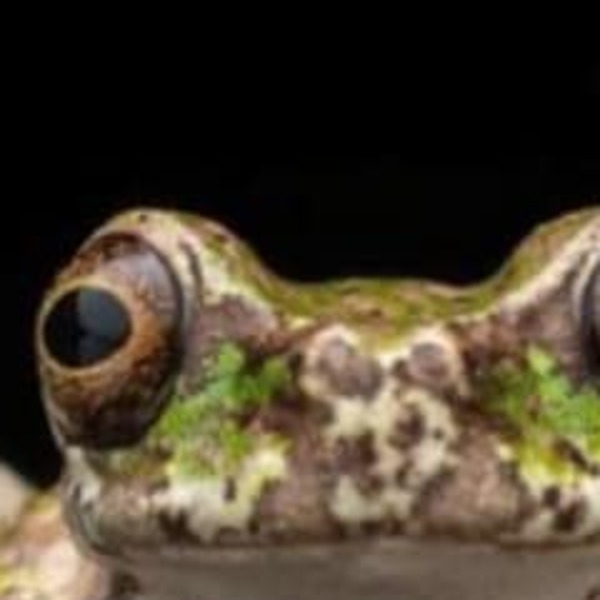
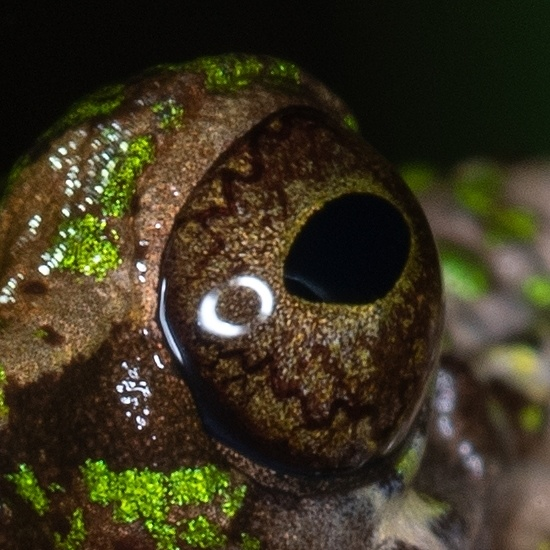
feat(specimen): implement photo editing modal
Added UI component to replace specimen photographs and updated metadata for the ocular detail image to improve descriptive accuracy.

diff --git a/src/components/SpecimenDetailView.tsx b/src/components/SpecimenDetailView.tsx
@@ -1726,6 +1726,141 @@ export const SpecimenDetailView: React.FC<SpecimenDetailViewProps> = ({
         </div>
       )}
 
+      {/* Modal para sustituir / editar fotografía de la galería (ej. Detalle Ocular) */}
+      {editingPhoto && (
+        <div className="fixed inset-0 z-[115] bg-black/75 backdrop-blur-sm flex items-center justify-center p-4 animate-in fade-in">
+          <div className="max-w-md w-full bg-white rounded-3xl p-5 shadow-2xl border border-[#c1c8c3] flex flex-col gap-4 max-h-[90vh] overflow-y-auto">
+            <div className="flex items-center justify-between border-b border-[#e1e3dd] pb-3">
+              <div className="flex items-center gap-2">
+                <div className="w-8 h-8 rounded-xl bg-[#002217] text-[#6cf8bb] flex items-center justify-center shadow-sm">
+                  <span className="material-symbols-outlined text-[19px]">edit</span>
+                </div>
+                <div>
+                  <h3 className="font-bold text-[#002217] text-sm">Sustituir Fotografía</h3>
+                  <p className="text-[11px] text-[#006c49] font-medium">{editingPhoto.label}</p>
+                </div>
+              </div>
+              <button
+                onClick={() => setEditingPhoto(null)}
+                className="w-8 h-8 rounded-full hover:bg-[#f0f2ec] text-[#414844] flex items-center justify-center cursor-pointer"
+              >
+                <span className="material-symbols-outlined text-[18px]">close</span>
+              </button>
+            </div>
+
+            {/* Vista previa de la foto */}
+            <div className="relative w-full h-52 rounded-2xl overflow-hidden bg-black/10 border border-[#c1c8c3] flex items-center justify-center">
+              {editPhotoUrl ? (
+                <img
+                  src={editPhotoUrl}
+                  alt={editingPhoto.label}
+                  className="w-full h-full object-contain bg-black"
+                />
+              ) : (
+                <div className="flex flex-col items-center gap-1 text-[#717974]">
+                  <span className="material-symbols-outlined text-3xl">image</span>
+                  <span className="text-xs">Sin imagen seleccionada</span>
+                </div>
+              )}
+            </div>
+
+            {/* Subir archivo desde dispositivo */}
+            <div>
+              <label className="block text-[11px] font-bold text-[#002217] uppercase mb-1">
+                Subir nueva imagen desde este dispositivo
+              </label>
+              <input
+                type="file"
+                accept="image/*"
+                onChange={(e) => {
+                  const file = e.target.files?.[0];
+                  if (file) {
+                    const reader = new FileReader();
+                    reader.onload = (ev) => {
+                      if (typeof ev.target?.result === 'string') {
+                        setEditPhotoUrl(ev.target.result);
+                      }
+                    };
+                    reader.readAsDataURL(file);
+                  }
+                }}
+                className="w-full text-xs text-[#414844] file:mr-3 file:py-2 file:px-3 file:rounded-xl file:border-0 file:text-xs file:font-bold file:bg-[#002217] file:text-[#6cf8bb] file:cursor-pointer hover:file:bg-[#003d2b] cursor-pointer"
+              />
+            </div>
+
+            {/* Opción Enlace URL */}
+            <div>
+              <label className="block text-[11px] font-bold text-[#002217] uppercase mb-1">
+                O pegar dirección URL de la fotografía
+              </label>
+              <input
+                type="url"
+                value={editPhotoUrl}
+                onChange={(e) => setEditPhotoUrl(e.target.value)}
+                placeholder="/isthmohyla_nacientes_eye_zoom.jpg o https://..."
+                className="w-full px-3 py-2 text-xs bg-[#f8faf4] border border-[#c1c8c3] rounded-xl text-[#191c19] focus:outline-none focus:border-[#006c49]"
+              />
+            </div>
+
+            {/* Descripción */}
+            <div>
+              <label className="block text-[11px] font-bold text-[#002217] uppercase mb-1">
+                Descripción / Pie de foto
+              </label>
+              <textarea
+                rows={2}
+                value={editPhotoDesc}
+                onChange={(e) => setEditPhotoDesc(e.target.value)}
+                placeholder="Detalle de la fotografía..."
+                className="w-full px-3 py-2 text-xs bg-[#f8faf4] border border-[#c1c8c3] rounded-xl text-[#191c19] focus:outline-none focus:border-[#006c49]"
+              />
+            </div>
+
+            {/* Botones de acción */}
+            <div className="grid grid-cols-2 gap-2 pt-2 border-t border-[#e1e3dd]">
+              <button
+                type="button"
+                onClick={() => setEditingPhoto(null)}
+                className="py-2.5 px-3 rounded-xl border border-[#c1c8c3] text-xs font-bold text-[#414844] hover:bg-[#f0f2ec] cursor-pointer"
+              >
+                Cancelar
+              </button>
+              <button
+                type="button"
+                onClick={() => {
+                  if (editPhotoUrl) {
+                    const updatedPhotos = (specimen.additionalPhotos || []).map((p) => {
+                      if (p.id === editingPhoto.id) {
+                        return {
+                          ...p,
+                          url: editPhotoUrl,
+                          description: editPhotoDesc || p.description,
+                        };
+                      }
+                      return p;
+                    });
+                    const updatedSpecimen: SpecimenRecord = {
+                      ...specimen,
+                      additionalPhotos: updatedPhotos,
+                    };
+                    if (onSaveSpecimen) {
+                      onSaveSpecimen(updatedSpecimen);
+                    }
+                    setEditingPhoto(null);
+                    setSaveSuccessMsg(`¡Fotografía "${editingPhoto.label}" sustituida y guardada permanentemente!`);
+                    setTimeout(() => setSaveSuccessMsg(null), 3500);
+                  }
+                }}
+                className="py-2.5 px-3 rounded-xl bg-[#002217] hover:bg-[#003d2b] text-[#6cf8bb] text-xs font-bold flex items-center justify-center gap-1.5 shadow-md cursor-pointer"
+              >
+                <span className="material-symbols-outlined text-[16px]">check</span>
+                <span>Guardar y Sustituir</span>
+              </button>
+            </div>
+          </div>
+        </div>
+      )}
+
       {/* Lightbox / High-Res Photo Modal */}
       {activePhotoModal && (
         <div
@@ -1749,10 +1884,30 @@ export const SpecimenDetailView: React.FC<SpecimenDetailViewProps> = ({
                 <span className="material-symbols-outlined text-[20px]">close</span>
               </button>
             </div>
-            <div className="p-4 flex flex-col gap-1">
-              <span className="font-mono text-xs font-bold text-[#006c49] uppercase">
-                {activePhotoModal.label}
-              </span>
+            <div className="p-4 flex flex-col gap-2">
+              <div className="flex items-center justify-between gap-2">
+                <span className="font-mono text-xs font-bold text-[#006c49] uppercase">
+                  {activePhotoModal.label}
+                </span>
+                <button
+                  onClick={() => {
+                    const target = specimen.additionalPhotos?.find((p) => p.label === activePhotoModal.label) || {
+                      id: 'photo-3',
+                      label: activePhotoModal.label,
+                      url: activePhotoModal.url,
+                      description: activePhotoModal.desc,
+                    };
+                    setActivePhotoModal(null);
+                    setEditingPhoto(target);
+                    setEditPhotoUrl(target.url);
+                    setEditPhotoDesc(target.description);
+                  }}
+                  className="px-2.5 py-1 rounded-lg bg-[#002217] text-[#6cf8bb] text-xs font-bold hover:bg-[#003d2b] flex items-center gap-1 cursor-pointer transition-colors"
+                >
+                  <span className="material-symbols-outlined text-[14px]">edit</span>
+                  <span>Sustituir fotografía</span>
+                </button>
+              </div>
               <p className="text-sm text-[#191c19]">{activePhotoModal.desc}</p>
             </div>
           </div>

diff --git a/src/data/initialSpecimens.ts b/src/data/initialSpecimens.ts
@@ -94,7 +94,7 @@ export const INITIAL_SPECIMENS: SpecimenRecord[] = [
         id: 'photo-3',
         url: '/isthmohyla_nacientes_eye_zoom.jpg',
         label: 'Detalle Ocular',
-        description: 'Macro zoom real del ojo de Isthmohyla nacientes. Se aprecia el iris cobrizo-dorado característico con reticulación oscura y pupila horizontal adaptada a baja luminosidad.',
+        description: 'Macro zoom de alta precisión y nitidez del ojo de Isthmohyla nacientes. Se aprecia el iris cobrizo-dorado metálico característico con reticulaciones oscuras dendríticas, pupila horizontal adaptada a baja luminosidad en quebradas y piel verde esmeralda con gránulos cutáneos húmedos.',
       },
       {
         id: 'photo-4',
